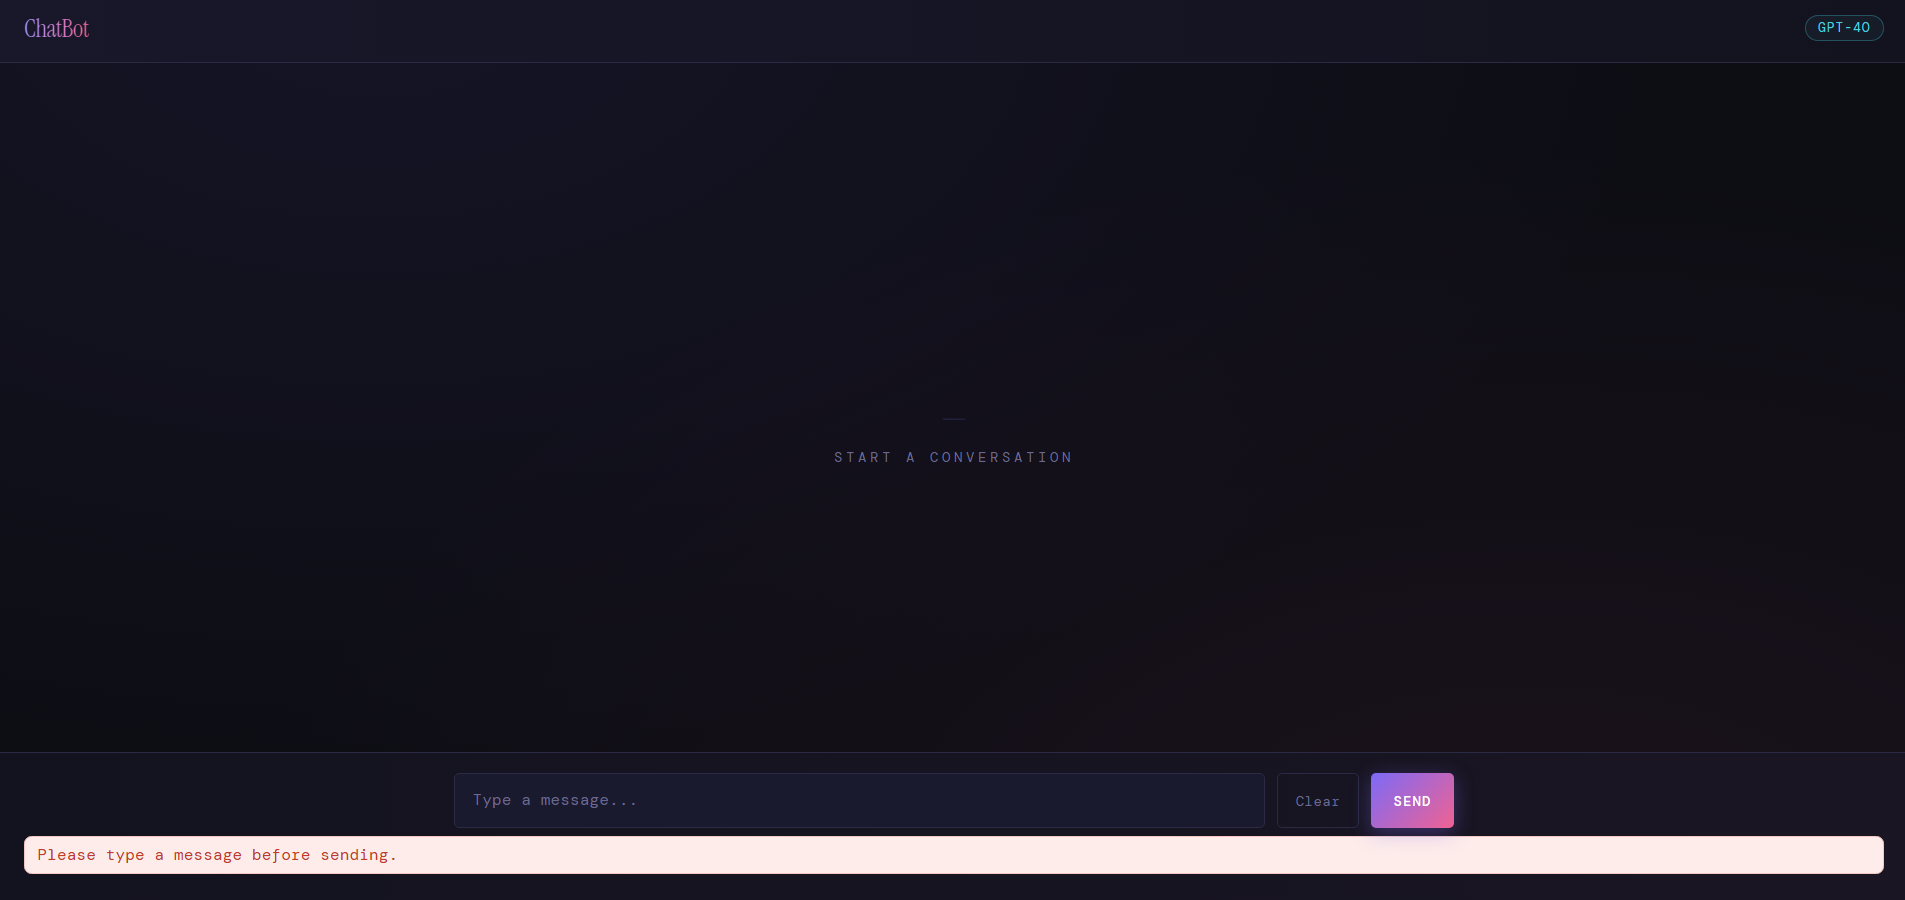
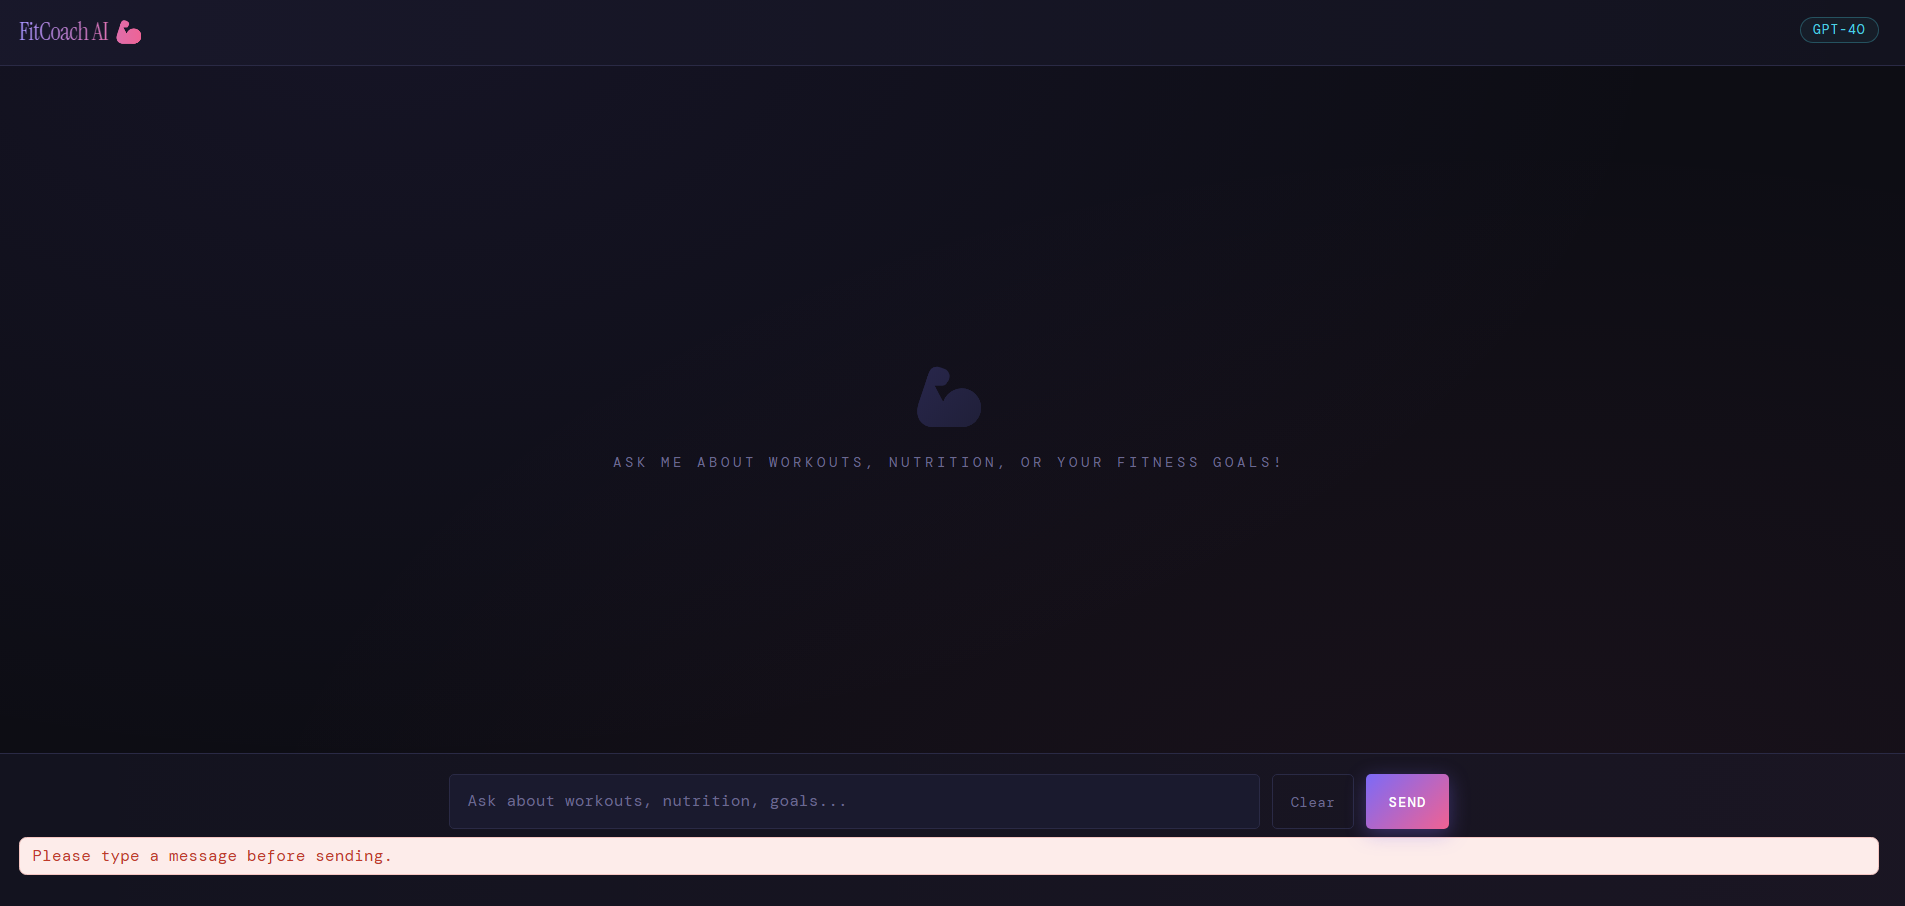
Update Again
Update Again

diff --git a/frontend/script.js b/frontend/script.js
@@ -20,10 +20,9 @@ const confirmMessage = document.getElementById('confirm-message');
 const confirmOk = document.getElementById('confirm-ok');
 const confirmCancel = document.getElementById('confirm-cancel');
 
-// --- Empty message warning helpers ---
 function showEmptyWarning() {
   emptyWarning.classList.remove('visible');
-  void emptyWarning.offsetWidth; // restart animation
+  void emptyWarning.offsetWidth;
   emptyWarning.classList.add('visible');
 }
 
@@ -31,7 +30,6 @@ function hideEmptyWarning() {
   emptyWarning.classList.remove('visible');
 }
 
-// --- Confirm dialog helper ---
 function showConfirm(message) {
   return new Promise(resolve => {
     confirmMessage.textContent = message;
@@ -52,7 +50,6 @@ function showConfirm(message) {
   });
 }
 
-// --- Start / configure ---
 startBtn.addEventListener('click', () => {
   const key = apiKeyInput.value.trim();
   if (!key) { apiKeyInput.focus(); return; }
@@ -67,7 +64,6 @@ apiKeyInput.addEventListener('keydown', e => {
   if (e.key === 'Enter') startBtn.click();
 });
 
-// --- Model badge: warn if chat has started ---
 modelLabel.addEventListener('click', async () => {
   if (history.length > 0) {
     const ok = await showConfirm(
@@ -79,7 +75,6 @@ modelLabel.addEventListener('click', async () => {
   setupPanel.style.display = 'flex';
 });
 
-// --- Clear chat button: confirm first ---
 clearBtn.addEventListener('click', async () => {
   if (history.length === 0) return;
   const ok = await showConfirm('Clear the entire conversation? This cannot be undone.');
@@ -88,13 +83,13 @@ clearBtn.addEventListener('click', async () => {
 
 function clearChat() {
   history = [];
-  messagesEl.innerHTML = '';
-  messagesEl.appendChild(emptyState);
+  Array.from(messagesEl.children).forEach(child => {
+    if (child.id !== 'empty-state') child.remove();
+  });
   emptyState.style.display = 'flex';
   errorMsg.textContent = '';
 }
 
-// --- Send message ---
 sendBtn.addEventListener('click', sendMessage);
 inputBox.addEventListener('keydown', e => {
   if (e.key === 'Enter' && !e.shiftKey) {
@@ -103,7 +98,6 @@ inputBox.addEventListener('keydown', e => {
   }
 });
 
-// Auto-resize textarea
 inputBox.addEventListener('input', () => {
   inputBox.style.height = 'auto';
   inputBox.style.height = Math.min(inputBox.scrollHeight, 160) + 'px';
@@ -138,10 +132,10 @@ async function sendMessage() {
 
   try {
     const res = await fetch('http://localhost:5000/api/chat', {
-  method: 'POST',
-  headers: { 'Content-Type': 'application/json' },
-  body: JSON.stringify({ model, messages: history })
-});
+      method: 'POST',
+      headers: { 'Content-Type': 'application/json' },
+      body: JSON.stringify({ model, messages: history })
+    });
 
     const data = await res.json();
     if (!res.ok) throw new Error(data.error?.message || `HTTP ${res.status}`);

diff --git a/frontend/index.html b/frontend/index.html
@@ -3,7 +3,7 @@
 <head>
   <meta charset="UTF-8">
   <meta name="viewport" content="width=device-width, initial-scale=1.0">
-  <title>ChatBot</title>
+  <title>FitCoach AI</title>
   <link rel="stylesheet" href="style.css">
   <style>
     .empty-warning {
@@ -31,8 +31,8 @@
   <!-- Setup Panel -->
   <div id="setup-panel">
     <div class="setup-card">
-      <h2>Configure API</h2>
-      <p>Enter your OpenRouter API key and choose a model to get started. Your key is stored only in memory.</p>
+      <h2>Welcome to FitCoach AI 💪</h2>
+      <p>Your personal AI fitness coach. Enter your OpenRouter API key and choose a model to get started. Your key is stored only in memory.</p>
 
       <label>OpenRouter API Key</label>
       <input type="password" id="api-key-input" placeholder="sk-or-v1-..." autocomplete="off" />
@@ -64,22 +64,22 @@
 
   <!-- Header -->
   <header>
-    <div class="logo">ChatBot</div>
+    <div class="logo">FitCoach AI 💪</div>
     <div class="model-badge" id="model-label">—</div>
   </header>
 
   <!-- Messages -->
   <div id="messages">
     <div id="empty-state">
-      <div class="big">_</div>
-      <p>Start a conversation</p>
+      <div class="big">💪</div>
+      <p>Ask me about workouts, nutrition, or your fitness goals!</p>
     </div>
   </div>
 
   <!-- Input -->
   <footer>
     <div class="input-row">
-      <textarea id="input-box" placeholder="Type a message..." rows="1"></textarea>
+      <textarea id="input-box" placeholder="Ask about workouts, nutrition, goals..." rows="1"></textarea>
       <button id="clear-btn" title="Clear chat">Clear</button>
       <button id="send-btn">Send</button>
     </div>

diff --git a/backend/api.py b/backend/api.py
@@ -9,27 +9,83 @@ CORS(app)
 
 API_KEY = os.getenv("OPENROUTER_AI_API_KEY")
 
+SYSTEM_PROMPT = {
+    "role": "system",
+    "content": (
+        "You are FitCoach AI, an expert personal fitness coach and nutritionist. "
+        "Your goal is to help users build healthy habits, create workout plans, "
+        "and reach their fitness goals. Always be encouraging, motivating, and positive. "
+        "Ask clarifying questions about the user's fitness level, goals, and any physical "
+        "limitations before giving advice. Provide safe, practical recommendations. "
+        "If a user describes symptoms of injury or a medical condition, advise them to "
+        "consult a healthcare professional. Keep responses clear and concise."
+    )
+}
+
 @app.route('/api/chat', methods=['POST'])
 def chat():
-    data = request.json
-    messages = data.get('messages', [])
-    model = data.get('model', 'openai/gpt-4o-mini')
+    try:
+        # 🔴 Check API key
+        if not API_KEY:
+            print("ERROR: Missing API key")
+            return jsonify({'error': 'Server missing API key'}), 500
 
-    res = requests.post(
-        'https://openrouter.ai/api/v1/chat/completions',
-        headers={
-            'Authorization': f'Bearer {API_KEY}',
-            'Content-Type': 'application/json'
-        },
-        json={'model': model, 'messages': messages, 'max_tokens': 1024}
-    )
+        data = request.get_json()
 
-    data = res.json()
-    if not res.ok:
-        return jsonify({'error': data.get('error', {}).get('message', f'HTTP {res.status_code}')}), res.status_code
+        # 🔴 Validate request
+        if not data or 'messages' not in data:
+            return jsonify({'error': 'No messages provided'}), 400
 
-    reply = data['choices'][0]['message']['content']
-    return jsonify({'reply': reply})
+        user_messages = data.get('messages', [])
+        model = data.get('model', 'openai/gpt-4o-mini')
+
+        messages = [SYSTEM_PROMPT] + user_messages
+
+        # 🔴 Call OpenRouter safely
+        try:
+            res = requests.post(
+                'https://openrouter.ai/api/v1/chat/completions',
+                headers={
+                    'Authorization': f'Bearer {API_KEY}',
+                    'Content-Type': 'application/json'
+                },
+                json={
+                    'model': model,
+                    'messages': messages,
+                    'max_tokens': 1024
+                },
+                timeout=15  # shorter timeout prevents frontend hanging
+            )
+        except requests.exceptions.RequestException as e:
+            print("Network error:", e)
+            return jsonify({'error': 'Failed to reach AI service'}), 500
+
+        # 🔴 Handle bad response
+        if not res.ok:
+            try:
+                err = res.json()
+                message = err.get('error', {}).get('message', 'Unknown error')
+            except:
+                message = f'HTTP {res.status_code}'
+
+            print("API error:", message)
+            return jsonify({'error': message}), res.status_code
+
+        result = res.json()
+
+        # 🔴 Safely extract reply
+        reply = (
+            result.get('choices', [{}])[0]
+            .get('message', {})
+            .get('content', '')
+        )
+
+        return jsonify({'reply': reply})
+
+    except Exception as e:
+        print("SERVER CRASH:", e)
+        return jsonify({'error': 'Internal server error'}), 500
+
 
 if __name__ == '__main__':
     app.run(port=5000, debug=True)

diff --git a/README.md b/README.md
@@ -1,14 +1,51 @@
 Created By: Kaitlyn Fortuna
 Date: 04/07/2026
 
-Project Title: Mini Chatbot Project
+Project Title: FitCoach AI — Personal Fitness Chatbot
 
 Description of chatbot functionality:
+FitCoach AI is a web-based chatbot that acts as a personal fitness coach and nutritionist.
+Users can ask questions about workout plans, nutrition advice, weight loss, muscle building,
+and general healthy habits. The AI asks about the user's fitness level and goals before
+giving tailored recommendations, and advises consulting a doctor for any injury or medical concern.
 
 Technologies used:
 HTML, CSS, JavaScript, Python Flask, and OpenRouter API
 
+Prerequisites:
+- Python 3.8+ installed
+- Node.js 18+ installed
+- An OpenRouter API key (free tier works): https://openrouter.ai/keys
+
 Setup and run instructions:
+1. Clone or download the project, then open a terminal in the project root.
+
+2. Install backend dependencies:
+     pip install flask flask-cors requests
+
+3. Set your OpenRouter API key as an environment variable:
+     On Mac/Linux:   export OPENROUTER_AI_API_KEY="your_key_here"
+     On Windows:     set OPENROUTER_AI_API_KEY=your_key_here
+
+4. Start the backend server:
+     cd backend
+     python api.py
+   The Flask server will start at http://localhost:5000
+
+5. In a new terminal, install and start the frontend:
+     cd frontend
+     npm install
+     npm run dev
+   The frontend will be served at http://localhost:3000
+
+6. Open http://localhost:3000 in your browser.
+   Enter your OpenRouter API key in the setup panel, select a model, and start chatting.
+
+Note: Both the backend (port 5000) and frontend (port 3000) must be running at the same time.
+
+7. Enter your API Key on the start menu and select your preferred LLM to use. 
+
+Note: For quick testing there is an API Key provided in the .env file for the graders. Once the start chatting button is pressed then the user can ask their fitness questions to the AI chatbot.
 
 API Used:
 OpenRouter API was used. This API is a united interface for LLMs. All of the accessible AIs identified in the project are available to use in the free-tier of the OpenRouter API key. This is a standardized API which means there is need to change code when switching between models or providers. Due to this feature, I included a dropdown menu for the user to choose which LLM they want to communicate with.
